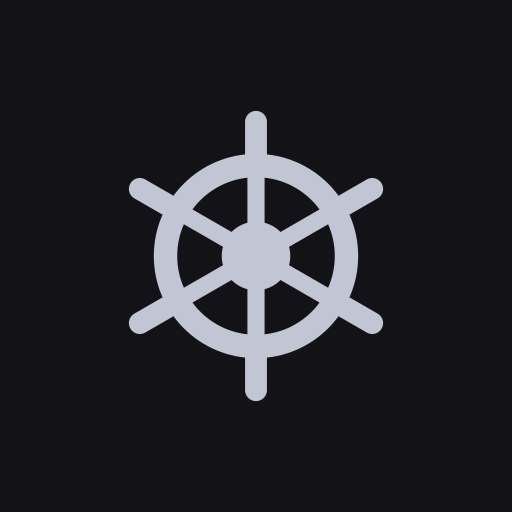
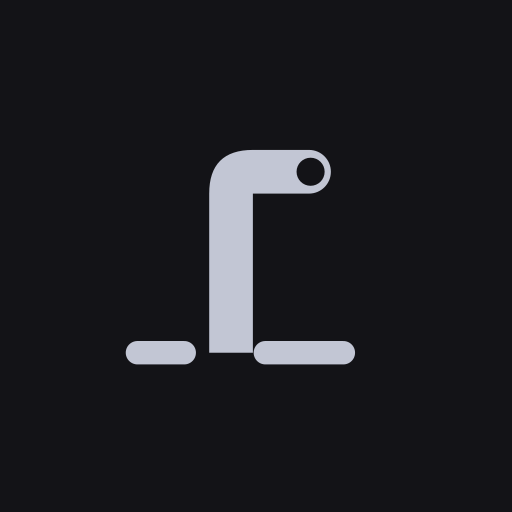
feat(web): a periscope for the mark
The wheel belonged to helm. Con is the place you steer *from* - and
on a boat you steer distant things by periscope: a stem out of the
water, an eye turned toward you. Same dark rounded square, same
silver, so the identity carries over.

Icons bumped to ?v=3 and the shell cache to v5 so installed PWAs and
home-screen shortcuts pick the new art up instead of holding the old
wheel forever.

Generated with [Devin](https://devin.ai)

Changed region(s): [[0.25, 0.2188, 0.75, 0.7812]]

diff --git a/apps/web/index.html b/apps/web/index.html
@@ -9,10 +9,10 @@
     <link rel="manifest" href="/manifest.webmanifest" />
     <!-- iOS ignores SVG icons entirely; without a PNG apple-touch-icon it
          screenshots the page and uses that on the home screen. -->
-    <link rel="apple-touch-icon" sizes="180x180" href="/icon-180.png?v=2" />
-    <link rel="icon" type="image/png" sizes="32x32" href="/favicon-32.png?v=2" />
-    <link rel="icon" type="image/svg+xml" href="/icon.svg?v=2" />
-    <link rel="mask-icon" href="/icon.svg?v=2" color="#c2c6d4" />
+    <link rel="apple-touch-icon" sizes="180x180" href="/icon-180.png?v=3" />
+    <link rel="icon" type="image/png" sizes="32x32" href="/favicon-32.png?v=3" />
+    <link rel="icon" type="image/svg+xml" href="/icon.svg?v=3" />
+    <link rel="mask-icon" href="/icon.svg?v=3" color="#c2c6d4" />
     <meta name="apple-mobile-web-app-title" content="con" />
     <title>con</title>
   </head>

diff --git a/apps/web/public/sw.js b/apps/web/public/sw.js
@@ -6,7 +6,7 @@
  * here would mean showing you a session state that is no longer true, which is
  * worse than showing you nothing.
  */
-const CACHE = 'con-shell-v4';
+const CACHE = 'con-shell-v5';
 const SHELL = [
   '/', '/index.html', '/manifest.webmanifest',
   '/icon.svg', '/icon-180.png', '/icon-192.png', '/favicon-32.png',
